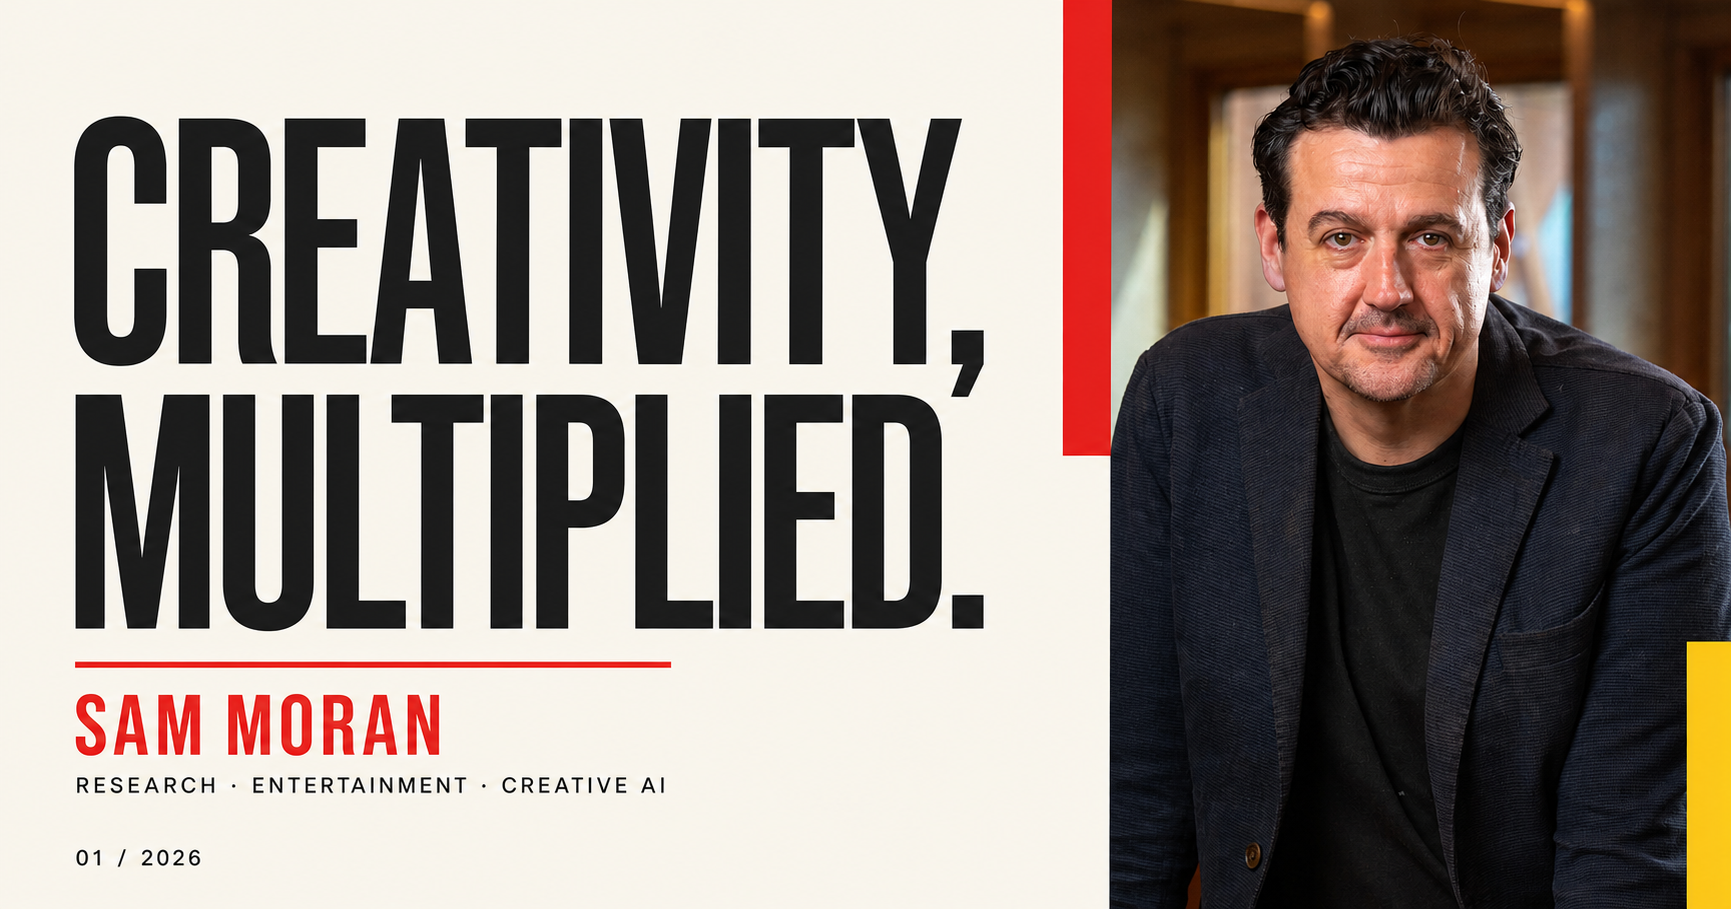
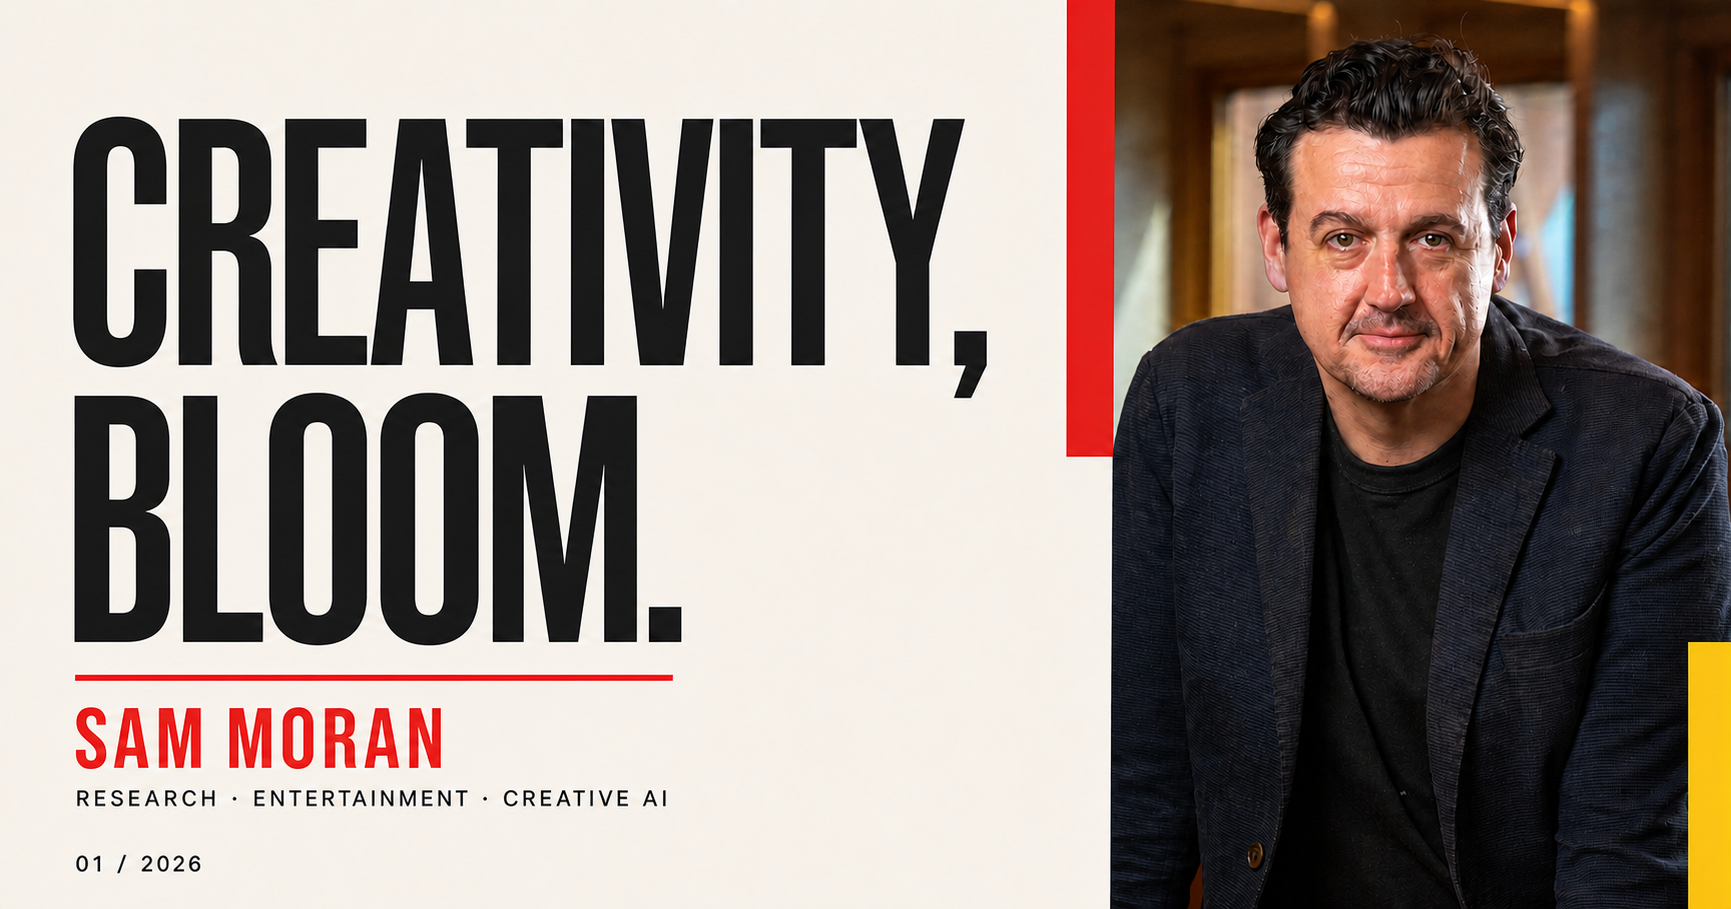
Adopt the Bloom research motif

diff --git a/index.html b/index.html
@@ -20,7 +20,7 @@
   <meta property="og:image" content="https://www.sammoran.phd/og.png">
   <meta property="og:image:width" content="1731">
   <meta property="og:image:height" content="909">
-  <meta property="og:image:alt" content="Creativity, Multiplied — Sam Moran">
+  <meta property="og:image:alt" content="Creativity, Bloom — Sam Moran">
   <meta name="twitter:card" content="summary_large_image">
   <meta name="twitter:site" content="@sammoran">
   <meta name="twitter:creator" content="@sammoran">
@@ -132,10 +132,10 @@
         <div class="hero-grid">
           <div class="hero-copy">
             <p class="hero-kicker">A more optimistic proposition</p>
-            <h1 id="hero-title" aria-label="Creativity is not under threat. It is about to multiply.">
+            <h1 id="hero-title" aria-label="Creativity is not under threat. It is about to bloom.">
               <span>Creativity is not</span>
               <span>under threat.</span>
-              <span>It is about to <em>multiply.</em></span>
+              <span>It is about to <em>bloom.</em></span>
             </h1>
             <div class="hero-intro">
               <p>

diff --git a/AGENTS.md b/AGENTS.md
@@ -40,6 +40,8 @@ Use these canonical identity details unless the user explicitly changes them:
 
 Never invent academic titles, qualifications, publications, institutional appointments, awards, clients, testimonials, audience figures or research findings. Clearly distinguish Sam's stated propositions from established findings.
 
+The site's recurring word is **bloom**. It intentionally foreshadows Sam's developing theoretical framework, **Compression Bloom**. Treat that name as a developing framework rather than a completed or published finding unless Sam provides publication details.
+
 ## Content standards for search and retrieval
 
 Every public page or future blog post must:
